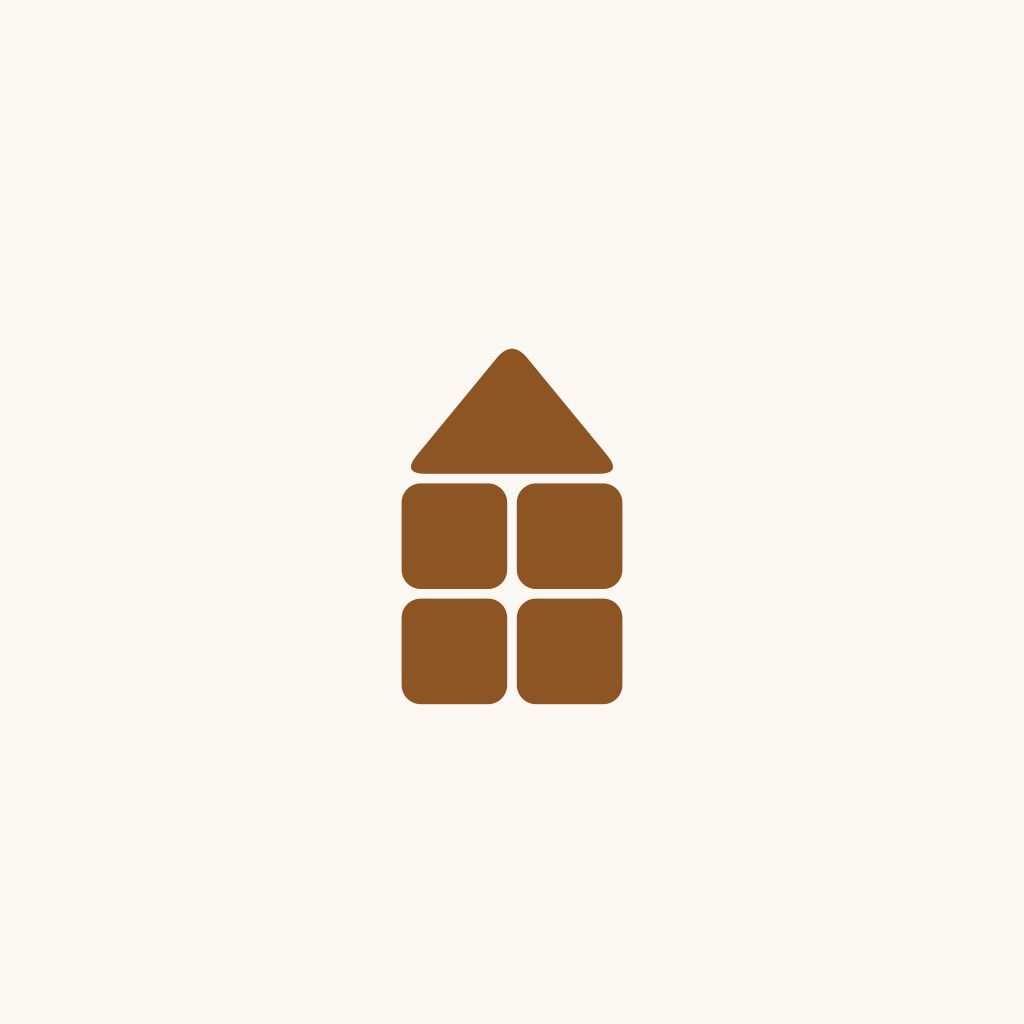
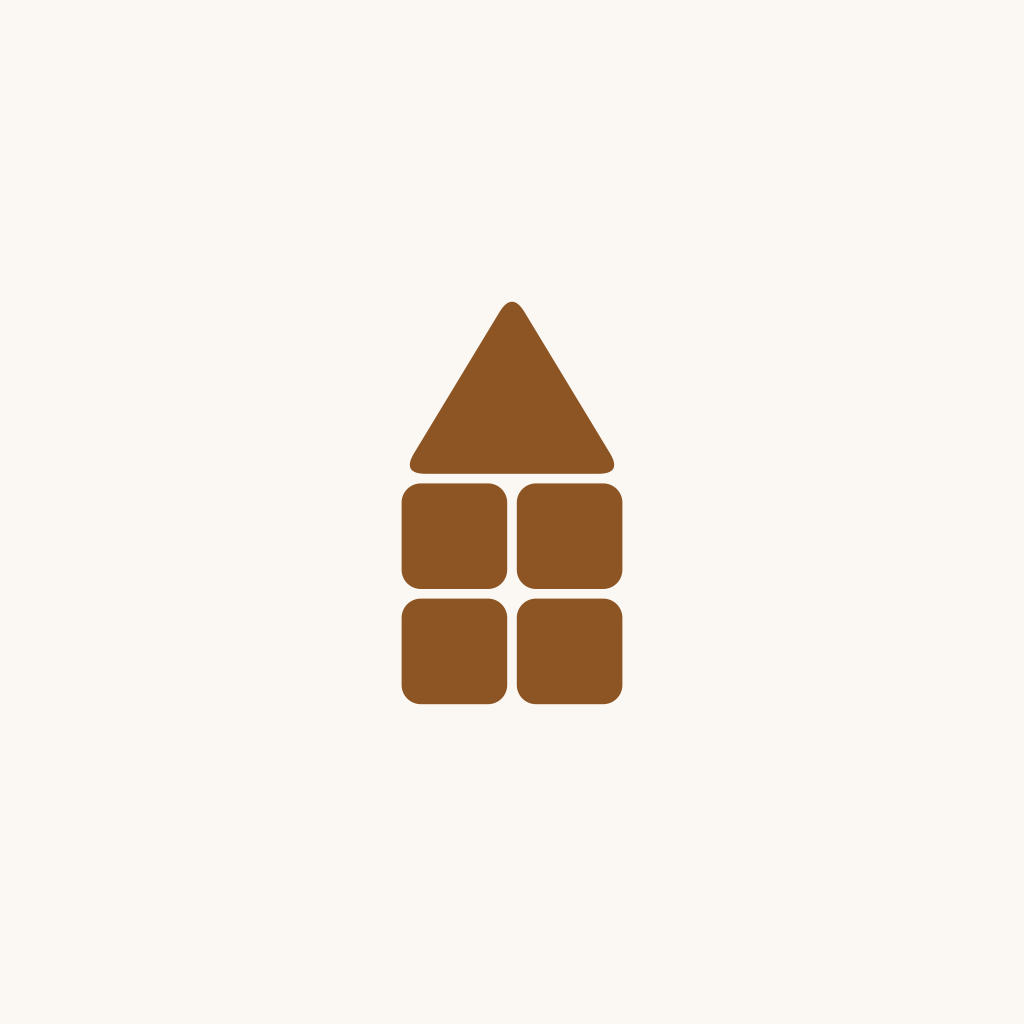
Update app version and branding assets across mobile application
Replit-Commit-Author: Agent

Changed region(s): [[0.4062, 0.2812, 0.5938, 0.4375]]

diff --git a/artifacts/mobile/components/HomieLogomark.tsx b/artifacts/mobile/components/HomieLogomark.tsx
@@ -18,7 +18,7 @@ export function HomieLogomark({ size = 80, color = "#8D5524" }: Props) {
   // Rounded triangle path
   // For each corner: move r=5 along both adjacent edges, then Q through the corner point.
   const roof =
-    "M 46.8,21.9 L 30.2,42.1 Q 27,46 32,46 L 68,46 Q 73,46 69.8,42.1 L 53.2,21.9 Q 50,18 46.8,21.9 Z";
+    "M 47.4,12.3 L 29.6,41.7 Q 27,46 32,46 L 68,46 Q 73,46 70.4,41.7 L 52.6,12.3 Q 50,8 47.4,12.3 Z";
 
   return (
     <Svg width={size} height={size * 1.08} viewBox="0 0 100 108">

diff --git a/artifacts/mobile/app/(auth)/splash.tsx b/artifacts/mobile/app/(auth)/splash.tsx
@@ -15,7 +15,7 @@ const H = 104; // 96 × 1.08
 const VIEWBOX = "0 0 100 108";
 const COLOR = "#8D5524";
 const ROOF =
-  "M 46.8,21.9 L 30.2,42.1 Q 27,46 32,46 L 68,46 Q 73,46 69.8,42.1 L 53.2,21.9 Q 50,18 46.8,21.9 Z";
+  "M 47.4,12.3 L 29.6,41.7 Q 27,46 32,46 L 68,46 Q 73,46 70.4,41.7 L 52.6,12.3 Q 50,8 47.4,12.3 Z";
 
 // Where each block starts before converging (px offset from its natural position)
 const SPREADS: { x: number; y: number }[] = [
